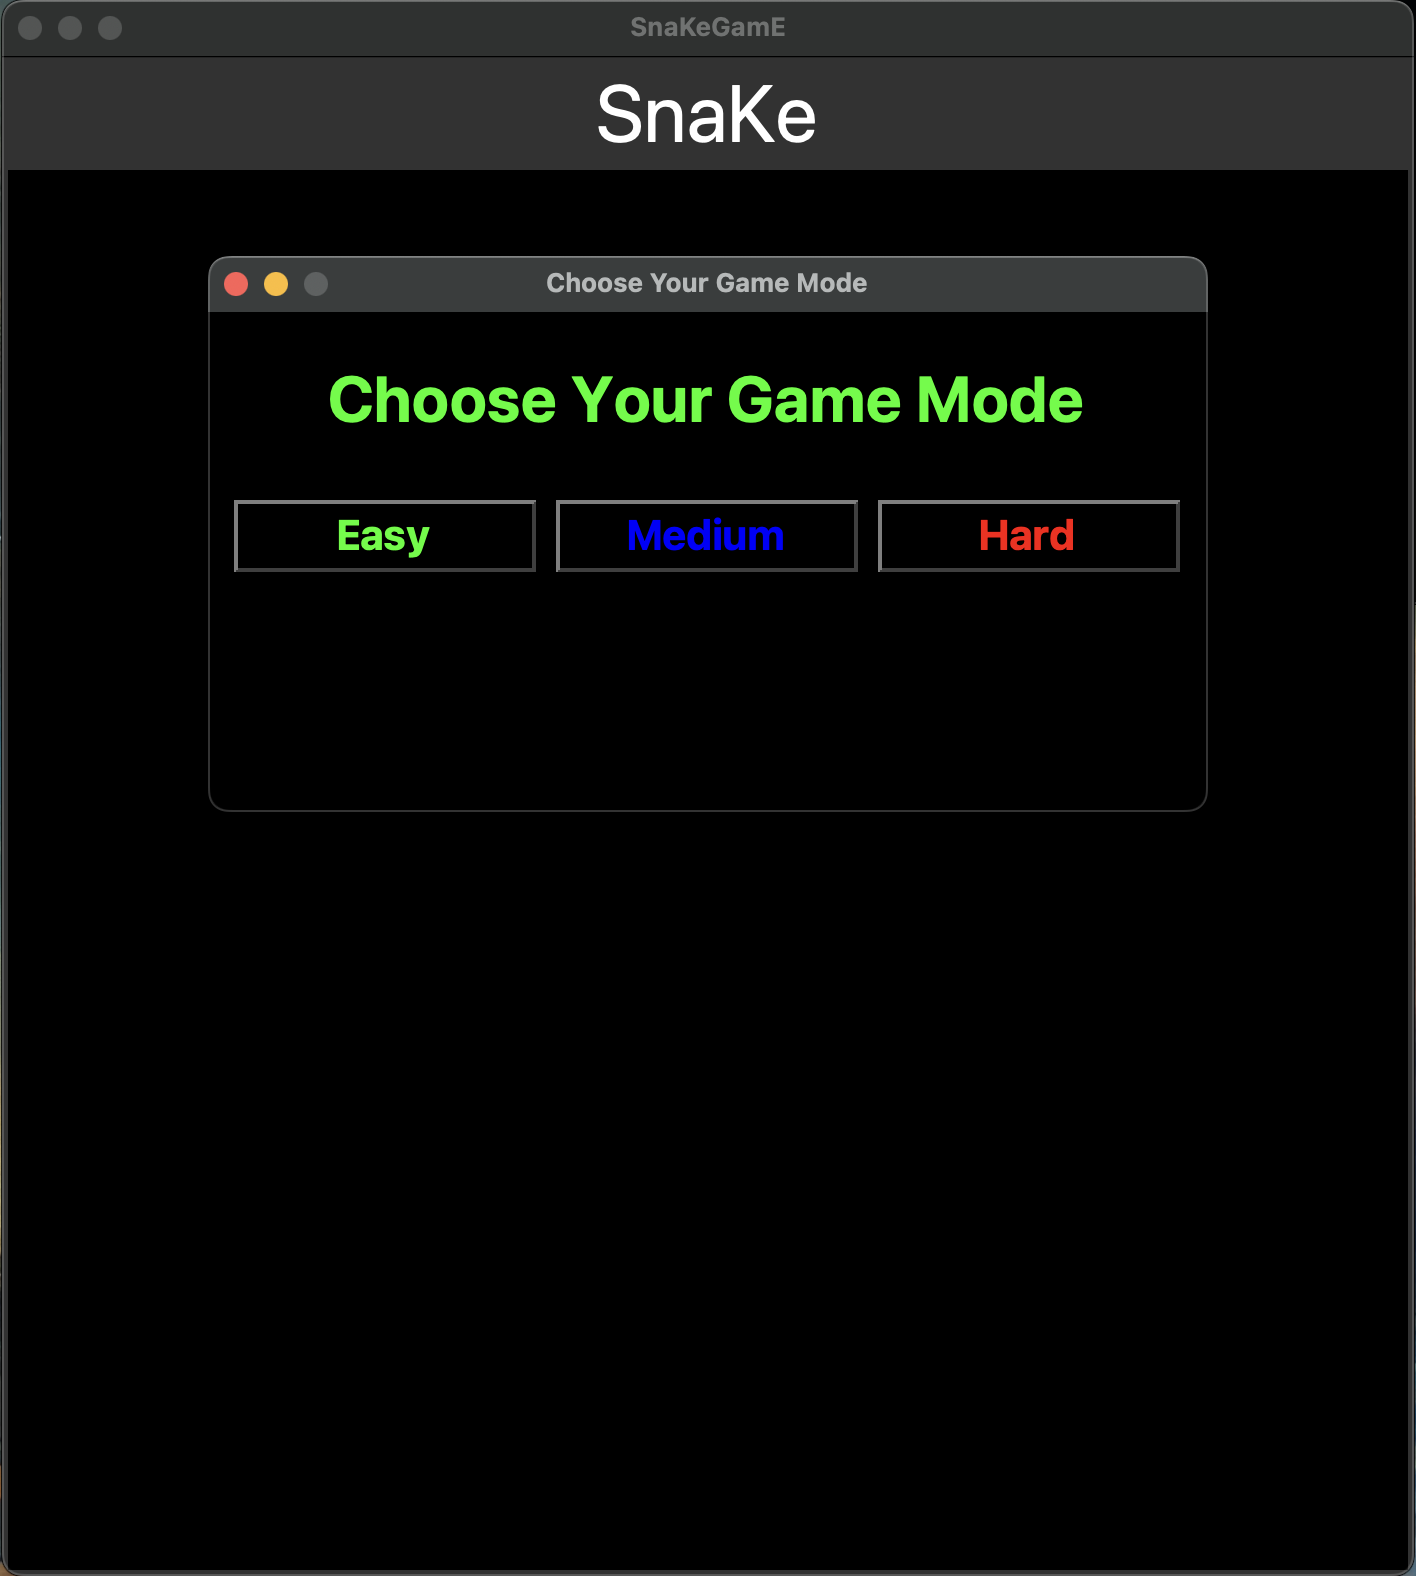
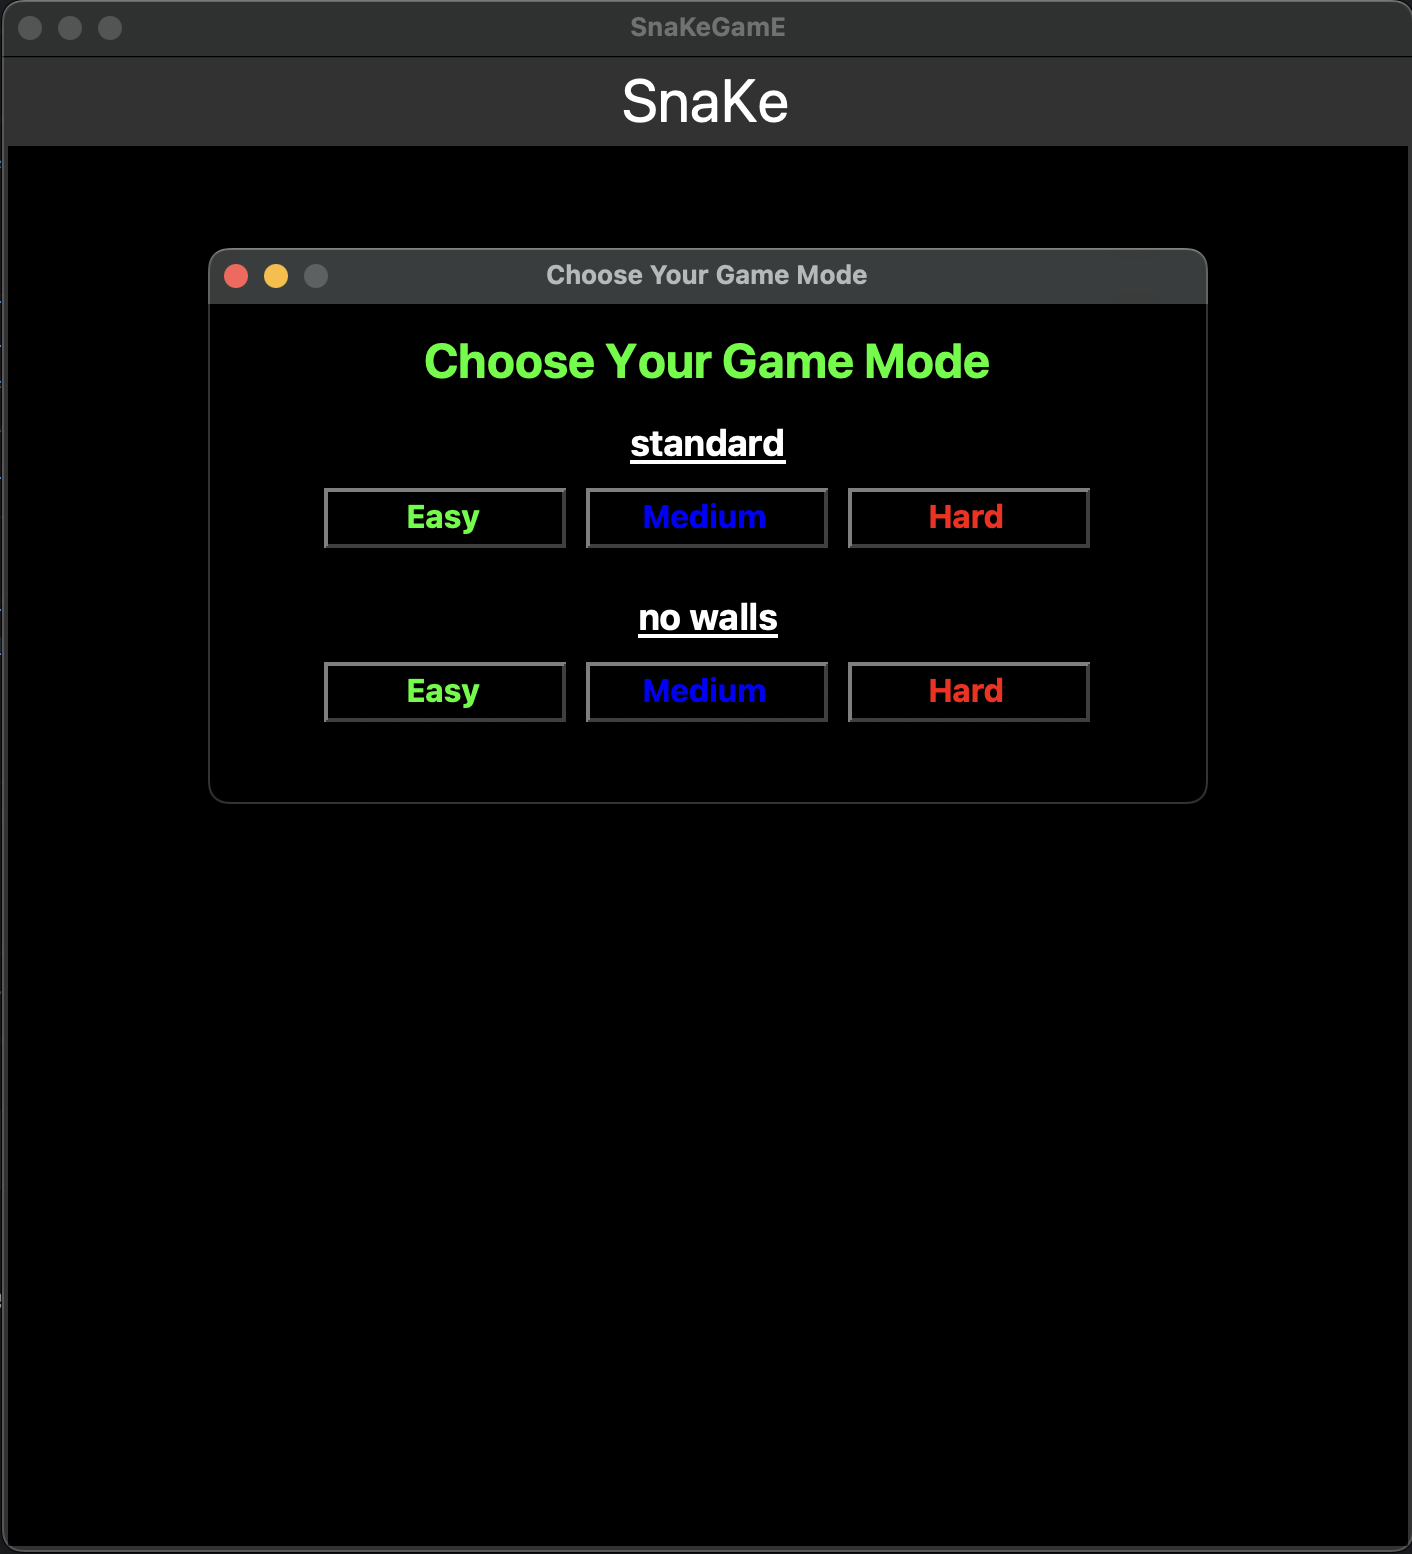
Edit README with new info and img

diff --git a/README.md b/README.md
@@ -28,15 +28,14 @@ Navigate the snake to eat food, grow longer, and try to achieve the highest scor
 - Different game modes.
 
 ## Screenshots
-- **Demo**
-
+- ### **Demo**
 
 ![Game Play Mode](./img/start_menu.png)
 ![Game Play Image One](./img/game_play_1.png)
 ![Game Play Image Two](./img/game_play_2.png)
+![No_Walls](./img/no_walls.png)
 
-
-- **Game Over Screenshot**
+- ### **Game Over Screenshot**
 
 ![Game Over](./img/game_over.png)
 ![Game Over Menu](./img/game_over_menu.png)
@@ -174,7 +173,6 @@ Navigate to the directory containing main.py file and run:
 
 ## Future Improvements
 - Add sound effects and background music.
-- Implement different difficulty levels.
 - Introduce obstacles and power-ups.
 
 ## Contact Information
